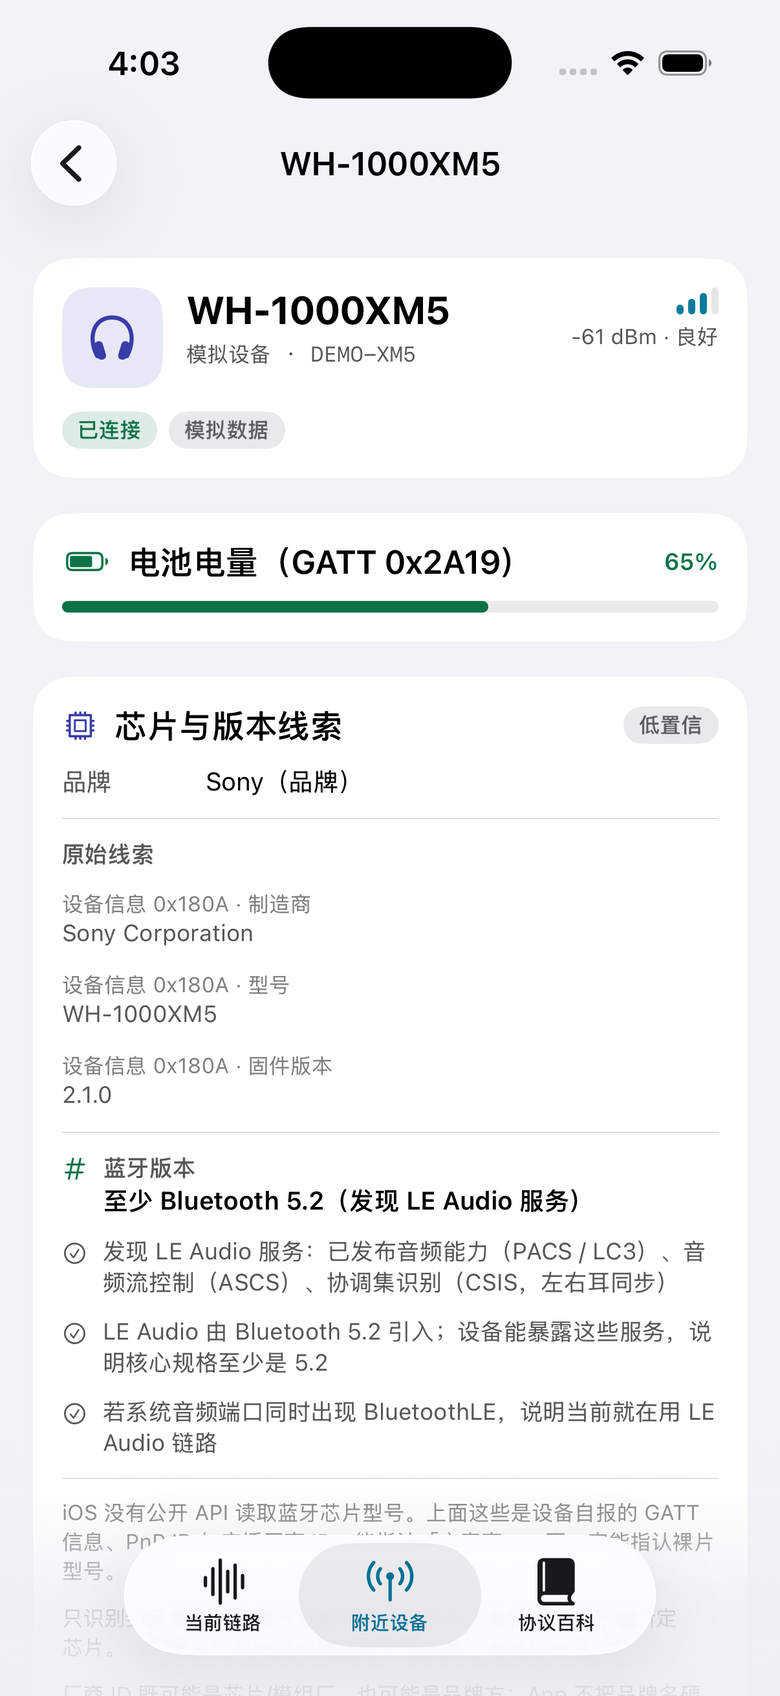
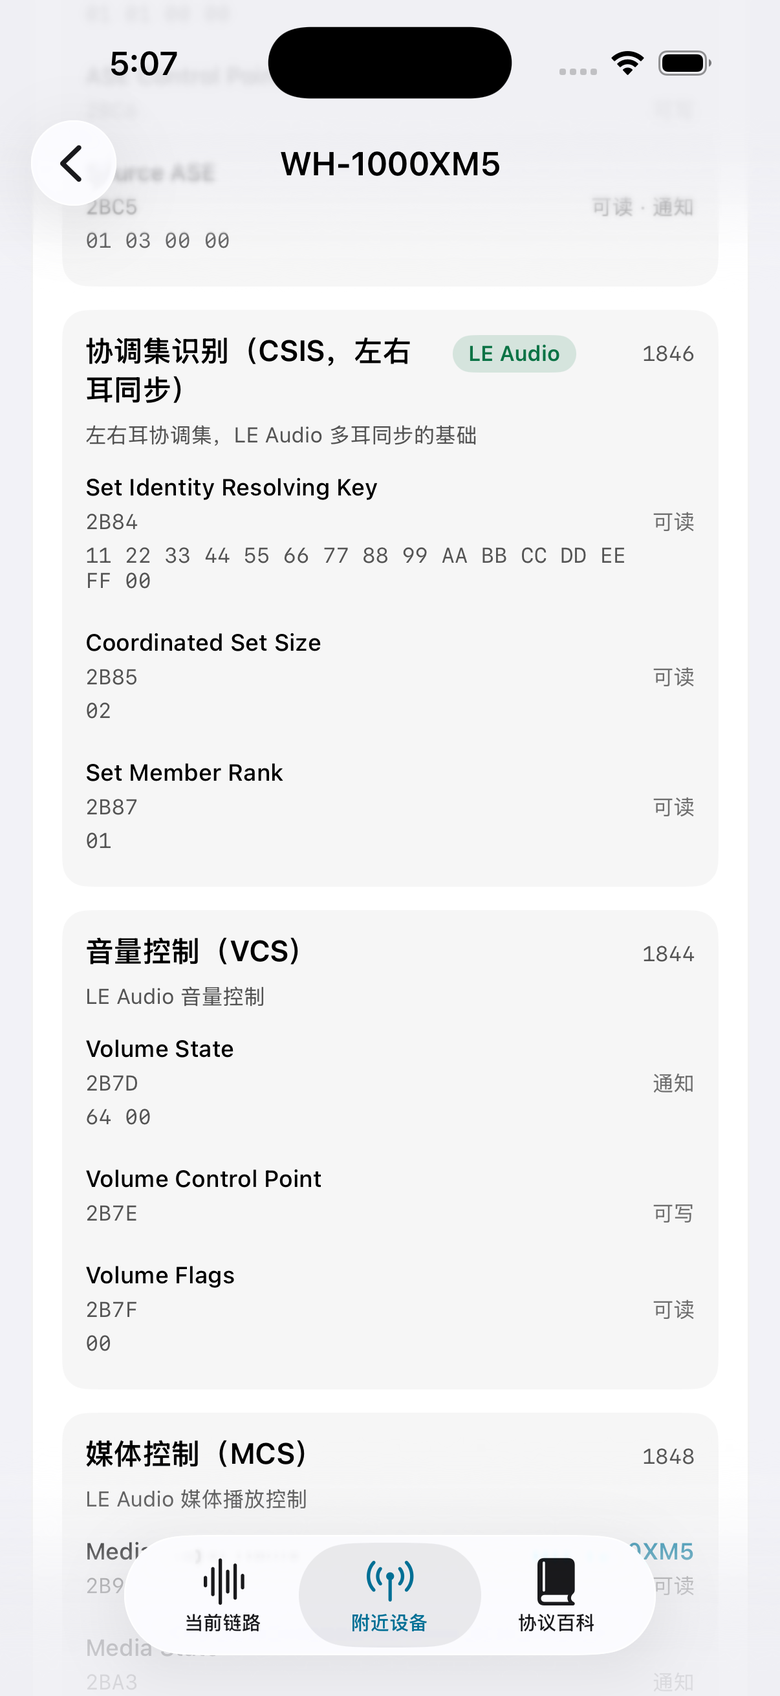
README：刷新首页/芯片截图到本轮 CI 产物，说明巡访改成每页两张
- docs-screenshot-route.png / docs-screenshot-chip.png 用最新模拟器截图重出（780x1696）
- L3 描述补上"每页拍两张（首屏 + 滚到底）"

diff --git a/README.md b/README.md
@@ -110,8 +110,8 @@ open BTInspector.xcodeproj
   信号阈值、演示数据），秒级，不依赖模拟器。
 - **L2 进程内自测**：`-autoTest` 启动参数，跑同一套核心回归 + 真实 `AVAudioSession` 输出端口检查，
   结果写 `tmp/autotest/`。
-- **L3 全页面截图巡访**：`-autoSmoke` 走完 3 个页签 + 2 个设备详情页，
-  与 runner 用 `now-<name>` / `ack-<name>` 标记文件握手截图。
+- **L3 全页面截图巡访**：`-autoSmoke` 走完 3 个页签 + 2 个设备详情页，每页拍两张
+  （首屏 + 滚到底），与 runner 用 `now-<name>` / `ack-<name>` 标记文件握手截图。
 - **runner 自检**：`tests/test_simulator_runner.sh` 用假 `xcrun` 覆盖「全部截图成功 / app 报 FAIL /
   app 提前退出」三条路径。
 
